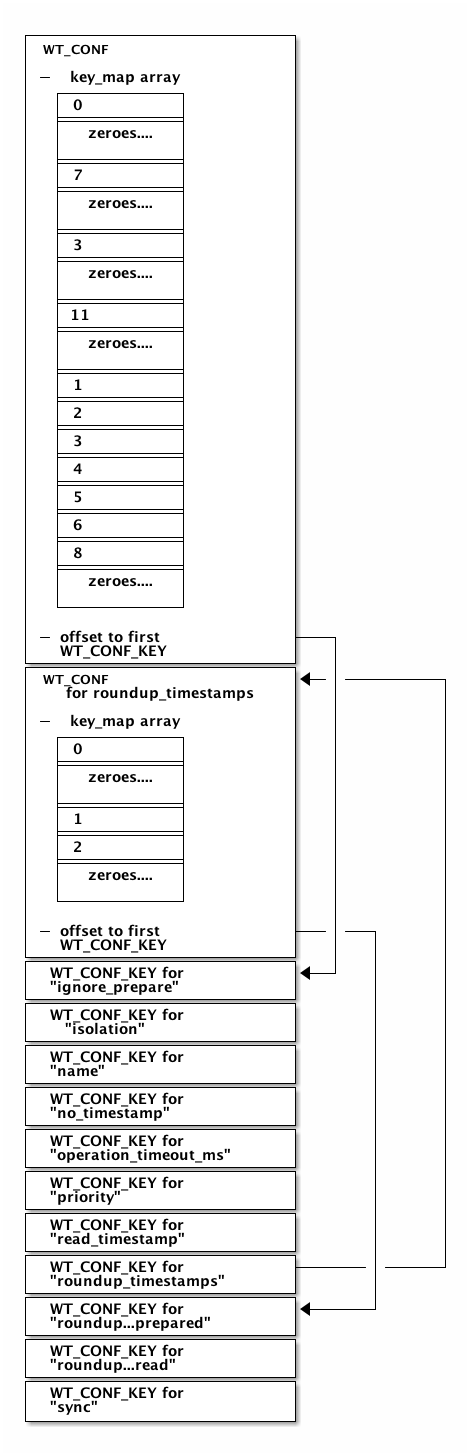
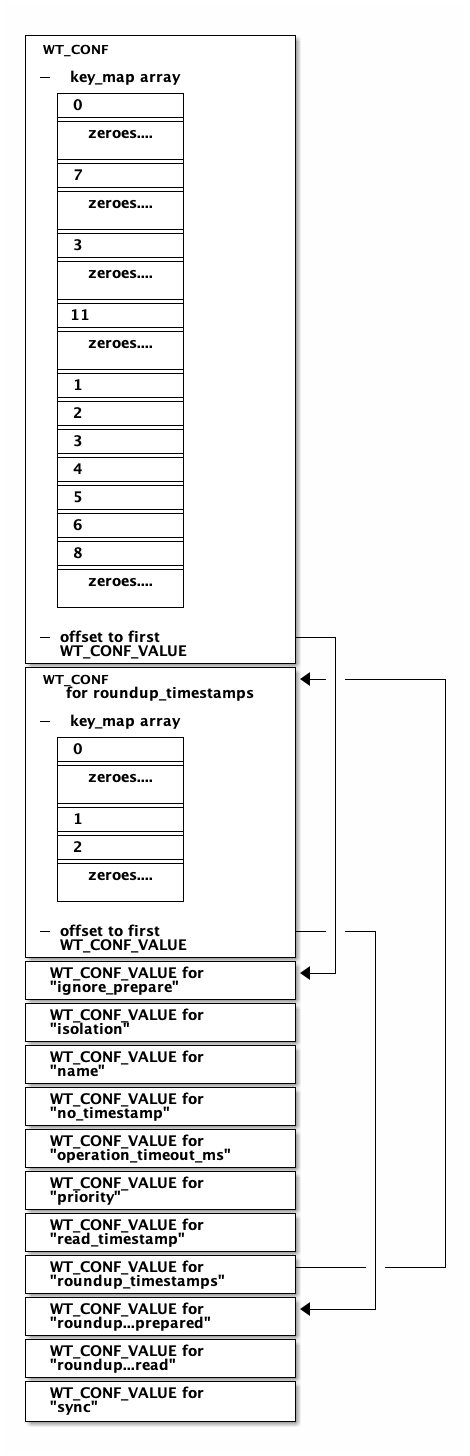
Changed conf_key struct to conf_value, it's a better fit, since the contents are values.

Changed region(s): [[0.1191, 0.6181, 0.417, 0.9581], [0.2979, 0.4327, 0.3872, 0.4636]]

diff --git a/src/conf/conf_compile.c b/src/conf/conf_compile.c
@@ -35,7 +35,7 @@ static int __conf_verbose_cat_config(WT_SESSION_IMPL *, const char **, WT_CONF *
  */
 static int
 __conf_compile_value(WT_SESSION_IMPL *session, WT_CONF *top_conf, WT_CONFIG_ITEM_TYPE check_type,
-  WT_CONF_KEY *conf_key, const WT_CONFIG_CHECK *check, WT_CONFIG_ITEM *value, bool bind_allowed,
+  WT_CONF_VALUE *conf_value, const WT_CONFIG_CHECK *check, WT_CONFIG_ITEM *value, bool bind_allowed,
   bool is_default)
 {
     uint32_t bind_offset;
@@ -60,17 +60,17 @@ __conf_compile_value(WT_SESSION_IMPL *session, WT_CONF *top_conf, WT_CONFIG_ITEM
 
         bind_offset = top_conf->binding_count++;
 
-        if (conf_key->type == CONF_KEY_BIND_DESC)
+        if (conf_value->type == CONF_VALUE_BIND_DESC)
             WT_RET_MSG(session, EINVAL, "Value '%.*s' cannot be used on the same key twice",
               (int)value->len, value->str);
 
-        conf_key->type = CONF_KEY_BIND_DESC;
-        conf_key->u.bind_desc.type = check_type;
-        conf_key->u.bind_desc.choices = check->choices;
-        conf_key->u.bind_desc.offset = bind_offset;
+        conf_value->type = CONF_VALUE_BIND_DESC;
+        conf_value->u.bind_desc.type = check_type;
+        conf_value->u.bind_desc.choices = check->choices;
+        conf_value->u.bind_desc.offset = bind_offset;
         WT_RET(__wt_realloc_def(session, &top_conf->binding_allocated, top_conf->binding_count,
           &top_conf->binding_descriptions));
-        top_conf->binding_descriptions[bind_offset] = &conf_key->u.bind_desc;
+        top_conf->binding_descriptions[bind_offset] = &conf_value->u.bind_desc;
     } else {
         switch (check_type) {
         case WT_CONFIG_ITEM_NUM:
@@ -114,8 +114,8 @@ __conf_compile_value(WT_SESSION_IMPL *session, WT_CONF *top_conf, WT_CONFIG_ITEM
 
         WT_RET(__wt_conf_check_one(session, check, value));
 
-        conf_key->type = is_default ? CONF_KEY_DEFAULT_ITEM : CONF_KEY_NONDEFAULT_ITEM;
-        conf_key->u.item = *value;
+        conf_value->type = is_default ? CONF_VALUE_DEFAULT_ITEM : CONF_VALUE_NONDEFAULT_ITEM;
+        conf_value->u.item = *value;
     }
     return (0);
 }
@@ -152,10 +152,10 @@ __conf_compile(WT_SESSION_IMPL *session, const char *api, WT_CONF *top_conf, WT_
     const WT_CONFIG_CHECK *check;
     WT_CONFIG_ITEM key, value;
     WT_CONFIG_ITEM_TYPE check_type;
-    WT_CONF_KEY *conf_key;
+    WT_CONF_VALUE *conf_value;
     WT_DECL_RET;
-    uint32_t i, key_id, conf_key_pos, subconf_count, subconf_keys;
-    uint8_t *sub_conf_key_addr;
+    uint32_t i, key_id, conf_value_pos, subconf_count, subconf_values;
+    uint8_t *sub_conf_value_addr;
     bool existing;
 
     /*
@@ -177,23 +177,23 @@ __conf_compile(WT_SESSION_IMPL *session, const char *api, WT_CONF *top_conf, WT_
             WT_ERR_MSG(session, EINVAL, "Error compiling '%s', unknown key '%.*s' for method '%s'",
               format, (int)key.len, key.str, api);
 
-        /* The key id is an offset into the key_map table. */
+        /* The key id is an offset into the value_map table. */
         key_id = check->key_id;
         WT_ASSERT(session, key_id < WT_CONF_ID_COUNT);
-        existing = (conf->key_map[key_id] != 0);
+        existing = (conf->value_map[key_id] != 0);
         if (existing)
             /* The position stored is one-based. */
-            conf_key_pos = (uint32_t)(conf->key_map[key_id] - 1);
+            conf_value_pos = (uint32_t)(conf->value_map[key_id] - 1);
         else {
             WT_ASSERT_ALWAYS(
-              session, conf->conf_key_count < conf->conf_key_max, "conf: key count overflow");
-            conf_key_pos = conf->conf_key_count++;
-            /* The position inserted to the key_map is one based, and must fit
+              session, conf->conf_value_count < conf->conf_value_max, "conf: key count overflow");
+            conf_value_pos = conf->conf_value_count++;
+            /* The position inserted to the value_map is one based, and must fit
              * into a byte */
-            WT_ASSERT(session, conf_key_pos + 1 <= 0xff);
-            conf->key_map[key_id] = (uint8_t)(conf_key_pos + 1);
+            WT_ASSERT(session, conf_value_pos + 1 <= 0xff);
+            conf->value_map[key_id] = (uint8_t)(conf_value_pos + 1);
         }
-        conf_key = WT_CONF_KEY_TABLE_ENTRY(conf, conf_key_pos);
+        conf_value = WT_CONF_VALUE_TABLE_ENTRY(conf, conf_value_pos);
 
         WT_ASSERT(session, check->compiled_type < WT_ELEMENTS(__compiled_type_to_item_type));
         check_type = __compiled_type_to_item_type[check->compiled_type];
@@ -207,8 +207,8 @@ __conf_compile(WT_SESSION_IMPL *session, const char *api, WT_CONF *top_conf, WT_
             if (!__wt_config_get_choice(check->choices, &value))
                 WT_ERR_MSG(session, EINVAL, "Value '%.*s' not a permitted choice for key '%.*s'",
                   (int)value.len, value.str, (int)key.len, key.str);
-            conf_key->type = is_default ? CONF_KEY_DEFAULT_ITEM : CONF_KEY_NONDEFAULT_ITEM;
-            conf_key->u.item = value;
+            conf_value->type = is_default ? CONF_VALUE_DEFAULT_ITEM : CONF_VALUE_NONDEFAULT_ITEM;
+            conf_value->u.item = value;
         } else if (check_type == WT_CONFIG_ITEM_STRUCT) {
             /* If the item is a single id, it is ready to go, as a single entry in the category. */
             if (value.type != WT_CONFIG_ITEM_ID) {
@@ -237,27 +237,30 @@ __conf_compile(WT_SESSION_IMPL *session, const char *api, WT_CONF *top_conf, WT_
             }
 
             if (existing) {
-                WT_ASSERT(session, conf_key->type == CONF_KEY_SUB_INFO);
+                WT_ASSERT(session, conf_value->type == CONF_VALUE_SUB_INFO);
                 WT_ASSERT(session,
-                  conf_key->u.sub_conf_index > 0 && conf_key->u.sub_conf_index < conf->conf_max);
+                  conf_value->u.sub_conf_index > 0 &&
+                    conf_value->u.sub_conf_index < conf->conf_max);
 
-                sub_conf = &conf[conf_key->u.sub_conf_index];
+                sub_conf = &conf[conf_value->u.sub_conf_index];
 
                 WT_ASSERT(session, sub_conf != NULL);
             } else {
                 WT_ASSERT_ALWAYS(
                   session, conf->conf_count < conf->conf_max, "conf: sub-configuration overflow");
 
-                conf_key->type = CONF_KEY_SUB_INFO;
-                conf_key->u.sub_conf_index = conf->conf_count;
+                conf_value->type = CONF_VALUE_SUB_INFO;
+                conf_value->u.sub_conf_index = conf->conf_count;
 
                 sub_conf = &conf[conf->conf_count];
                 sub_conf->compile_time_entry = top_conf->compile_time_entry;
-                sub_conf->conf_key_count = 0;
-                sub_conf_key_addr = (uint8_t *)WT_CONF_KEY_TABLE_ENTRY(conf, conf->conf_key_count);
-                WT_ASSERT(session, (uint8_t *)sub_conf < sub_conf_key_addr);
-                sub_conf->conf_key_table_offset = (size_t)(sub_conf_key_addr - (uint8_t *)sub_conf);
-                sub_conf->conf_key_max = conf->conf_key_max - conf->conf_key_count;
+                sub_conf->conf_value_count = 0;
+                sub_conf_value_addr =
+                  (uint8_t *)WT_CONF_VALUE_TABLE_ENTRY(conf, conf->conf_value_count);
+                WT_ASSERT(session, (uint8_t *)sub_conf < sub_conf_value_addr);
+                sub_conf->conf_value_table_offset =
+                  (size_t)(sub_conf_value_addr - (uint8_t *)sub_conf);
+                sub_conf->conf_value_max = conf->conf_value_max - conf->conf_value_count;
                 /*
                  * The sub-configuration count needs to count itself.
                  */
@@ -271,18 +274,18 @@ __conf_compile(WT_SESSION_IMPL *session, const char *api, WT_CONF *top_conf, WT_
              * Before we compile the sub-configuration, take note of the current counts there, we'll
              * need to adjust our counts when it's done.
              */
-            subconf_keys = sub_conf->conf_key_count;
+            subconf_values = sub_conf->conf_value_count;
             subconf_count = sub_conf->conf_count;
 
             /* Compile the sub-configuration and adjust our counts. */
             WT_ERR(__conf_compile(session, api, top_conf, sub_conf, check->subconfigs,
               check->subconfigs_entries, check->subconfigs_jump, value.str, value.len, bind_allowed,
               is_default));
-            conf->conf_key_count += (sub_conf->conf_key_count - subconf_keys);
+            conf->conf_value_count += (sub_conf->conf_value_count - subconf_values);
             conf->conf_count += (sub_conf->conf_count - subconf_count);
         } else
             WT_ERR(__conf_compile_value(
-              session, top_conf, check_type, conf_key, check, &value, bind_allowed, is_default));
+              session, top_conf, check_type, conf_value, check, &value, bind_allowed, is_default));
 
         if (is_default)
             __bit_set(conf->bitmap_default, key_id);
@@ -439,15 +442,15 @@ __conf_compile_config_strings(WT_SESSION_IMPL *session, const WT_CONFIG_ENTRY *c
     u_int i, nconf, nkey;
 
     nconf = centry->conf_count;
-    nkey = centry->conf_key_count;
+    nkey = centry->conf_value_count;
 
     /*
      * The layout of the final compiled conf starts with N conf structs, followed by M key structs.
      */
-    conf->conf_key_table_offset = sizeof(WT_CONF) * nconf;
+    conf->conf_value_table_offset = sizeof(WT_CONF) * nconf;
 
     conf->compile_time_entry = centry;
-    conf->conf_key_max = nkey;
+    conf->conf_value_max = nkey;
     conf->conf_max = nconf;
     conf->conf_count = 1; /* The current conf is counted. */
 
@@ -457,7 +460,7 @@ __conf_compile_config_strings(WT_SESSION_IMPL *session, const WT_CONFIG_ENTRY *c
           centry->checks_entries, centry->checks_jump, cfg[i], strlen(cfg[i]), bind_allowed,
           i != user_supplied));
 
-    WT_ASSERT_ALWAYS(session, conf->conf_key_count <= nkey, "conf: key count overflow");
+    WT_ASSERT_ALWAYS(session, conf->conf_value_count <= nkey, "conf: key count overflow");
     WT_ASSERT_ALWAYS(session, conf->conf_count <= nconf, "conf: sub-conf count overflow");
 
     if (WT_VERBOSE_LEVEL_ISSET(session, WT_VERB_CONFIGURATION, WT_VERBOSE_DEBUG_2))

diff --git a/src/include/conf.h b/src/include/conf.h
@@ -48,7 +48,7 @@ struct __wt_conf_bind_desc {
  * to strdup any fields.
  *
  * We actually compile into a superstructure that has N WT_CONF struct in an array,
- * followed by M WT_CONF_KEY structs in another array.  N is the maximum conf count,
+ * followed by M WT_CONF_VALUE structs in another array.  N is the maximum conf count,
  * M is the maximum key count, these values are stored in this structure.  These two
  * values are dependent on the particular API we are compiling, and whether the API has
  * sub-configurations and how many keys the API uses.
@@ -71,15 +71,15 @@ struct __wt_conf {
     const char *api_config;     /* String from an API call to compile this struct */
     const char *default_config; /* Default string at the time of the compilation */
 
-    uint8_t key_map[WT_CONF_ID_COUNT]; /* For each key, a 1-based index into conf_key */
+    uint8_t value_map[WT_CONF_ID_COUNT]; /* For each key, a 1-based index into conf_value */
 
     uint32_t conf_count;
     uint32_t conf_max;
 
-    uint32_t conf_key_count;
-    uint32_t conf_key_max;
+    uint32_t conf_value_count;
+    uint32_t conf_value_max;
 
-    size_t conf_key_table_offset;
+    size_t conf_value_table_offset;
 
     uint32_t binding_count;
     size_t binding_allocated;
@@ -90,15 +90,15 @@ struct __wt_conf {
  * To keep the conf structure position independent, we cannot have a direct pointer to the key
  * table, we must deduce its position.
  */
-#define WT_CONF_KEY_TABLE_ENTRY(conf, n) \
-    &((WT_CONF_KEY *)((uint8_t *)conf + conf->conf_key_table_offset))[n]
+#define WT_CONF_VALUE_TABLE_ENTRY(conf, n) \
+    &((WT_CONF_VALUE *)((uint8_t *)conf + conf->conf_value_table_offset))[n]
 
-struct __wt_conf_key {
+struct __wt_conf_value {
     enum {
-        CONF_KEY_DEFAULT_ITEM,
-        CONF_KEY_NONDEFAULT_ITEM,
-        CONF_KEY_BIND_DESC,
-        CONF_KEY_SUB_INFO
+        CONF_VALUE_DEFAULT_ITEM,
+        CONF_VALUE_NONDEFAULT_ITEM,
+        CONF_VALUE_BIND_DESC,
+        CONF_VALUE_SUB_INFO
     } type;
     union {
         WT_CONFIG_ITEM item;
@@ -115,17 +115,17 @@ struct __wt_conf_key {
     WT_CONF_API_TYPE(c, m)                      \
     {                                           \
         WT_CONF conf[nconf];                    \
-        WT_CONF_KEY conf_key[nitem];            \
+        WT_CONF_VALUE conf_value[nitem];        \
     }
 
 #define WT_CONF_DEFAULT_VALUE_SHORTCUT(conf, keys) \
     ((keys) < WT_CONF_ID_COUNT && __bit_test(&(conf)->bitmap_default[0], (keys)))
 
 #define WT_CONF_API_COUNT(c, m) (WT_FIELD_ELEMENTS(WT_CONF_API_TYPE(c, m), conf))
-#define WT_CONF_API_KEY_COUNT(c, m) (WT_FIELD_ELEMENTS(WT_CONF_API_TYPE(c, m), conf_key))
+#define WT_CONF_API_VALUE_COUNT(c, m) (WT_FIELD_ELEMENTS(WT_CONF_API_TYPE(c, m), conf_value))
 
 #define WT_CONF_SIZING_INITIALIZE(c, m) \
-    sizeof(WT_CONF_API_TYPE(c, m)), WT_CONF_API_COUNT(c, m), WT_CONF_API_KEY_COUNT(c, m)
+    sizeof(WT_CONF_API_TYPE(c, m)), WT_CONF_API_COUNT(c, m), WT_CONF_API_VALUE_COUNT(c, m)
 
 #define WT_CONF_SIZING_NONE 0, 0, 0
 

diff --git a/src/conf/conf_get.c b/src/conf/conf_get.c
@@ -20,11 +20,11 @@ __wt_conf_gets_func(WT_SESSION_IMPL *session, const WT_CONF *orig_conf, uint64_t
 {
     WT_CONFIG_ITEM_STATIC_INIT(false_value);
     WT_CONF_BIND_DESC *bind_desc;
-    WT_CONF_KEY *conf_key;
+    WT_CONF_VALUE *conf_value;
     const WT_CONF *conf;
     uint64_t keys;
     uint32_t partkey, values_off;
-    uint8_t conf_key_index;
+    uint8_t conf_value_index;
 
     conf = orig_conf;
     keys = orig_keys;
@@ -34,20 +34,20 @@ __wt_conf_gets_func(WT_SESSION_IMPL *session, const WT_CONF *orig_conf, uint64_t
         partkey = keys & 0xffff;
         WT_ASSERT(session, partkey != 0);
 
-        conf_key_index = conf->key_map[partkey];
-        if (conf_key_index == 0)
+        conf_value_index = conf->value_map[partkey];
+        if (conf_value_index == 0)
             return (WT_NOTFOUND);
 
-        /* The value in key_map is one-based, account for that here. */
-        --conf_key_index;
-        WT_ASSERT(session, conf_key_index < conf->conf_key_count);
-        conf_key = WT_CONF_KEY_TABLE_ENTRY(conf, conf_key_index);
+        /* The value in value_map is one-based, account for that here. */
+        --conf_value_index;
+        WT_ASSERT(session, conf_value_index < conf->conf_value_count);
+        conf_value = WT_CONF_VALUE_TABLE_ENTRY(conf, conf_value_index);
 
         /* Set up a new value of keys for use if we have a sub-configuration. */
         keys >>= 16;
 
-        switch (conf_key->type) {
-        case CONF_KEY_DEFAULT_ITEM:
+        switch (conf_value->type) {
+        case CONF_VALUE_DEFAULT_ITEM:
             if (use_def) {
                 *value = false_value;
                 value->val = def;
@@ -55,16 +55,16 @@ __wt_conf_gets_func(WT_SESSION_IMPL *session, const WT_CONF *orig_conf, uint64_t
             }
 
         /* FALLTHROUGH */
-        case CONF_KEY_NONDEFAULT_ITEM:
+        case CONF_VALUE_NONDEFAULT_ITEM:
             if (keys != 0)
                 return (WT_NOTFOUND);
-            *value = conf_key->u.item;
+            *value = conf_value->u.item;
             return (0);
 
-        case CONF_KEY_BIND_DESC:
+        case CONF_VALUE_BIND_DESC:
             if (keys != 0)
                 return (WT_NOTFOUND);
-            bind_desc = &conf_key->u.bind_desc;
+            bind_desc = &conf_value->u.bind_desc;
             values_off = bind_desc->offset;
             WT_ASSERT(session,
               bind_desc->offset < orig_conf->binding_count &&
@@ -75,8 +75,8 @@ __wt_conf_gets_func(WT_SESSION_IMPL *session, const WT_CONF *orig_conf, uint64_t
             *value = session->conf_bindings.values[values_off].item;
             return (0);
 
-        case CONF_KEY_SUB_INFO:
-            conf = &conf[conf_key->u.sub_conf_index];
+        case CONF_VALUE_SUB_INFO:
+            conf = &conf[conf_value->u.sub_conf_index];
 
             /* Do a quick check to see if the sub-configuration value is the default. */
             if (use_def && WT_CONF_DEFAULT_VALUE_SHORTCUT(conf, keys & 0xffff)) {

diff --git a/src/include/config.h b/src/include/config.h
@@ -60,7 +60,7 @@ struct __wt_config_entry {
     u_int method_id;
     size_t conf_total_size; /* total size of the structures needed for precompiling */
     u_int conf_count;       /* number of WT_CONF structures needed for precompiling */
-    u_int conf_key_count;   /* number of WT_CONF_KEY structures needed for precompiling */
+    u_int conf_value_count; /* number of WT_CONF_VALUE structures needed for precompiling */
     bool compilable;
 };
 

diff --git a/src/include/wt_internal.h b/src/include/wt_internal.h
@@ -159,8 +159,8 @@ struct __wt_conf_bind_desc;
 typedef struct __wt_conf_bind_desc WT_CONF_BIND_DESC;
 struct __wt_conf_bindings;
 typedef struct __wt_conf_bindings WT_CONF_BINDINGS;
-struct __wt_conf_key;
-typedef struct __wt_conf_key WT_CONF_KEY;
+struct __wt_conf_value;
+typedef struct __wt_conf_value WT_CONF_VALUE;
 struct __wt_config;
 typedef struct __wt_config WT_CONFIG;
 struct __wt_config_check;
